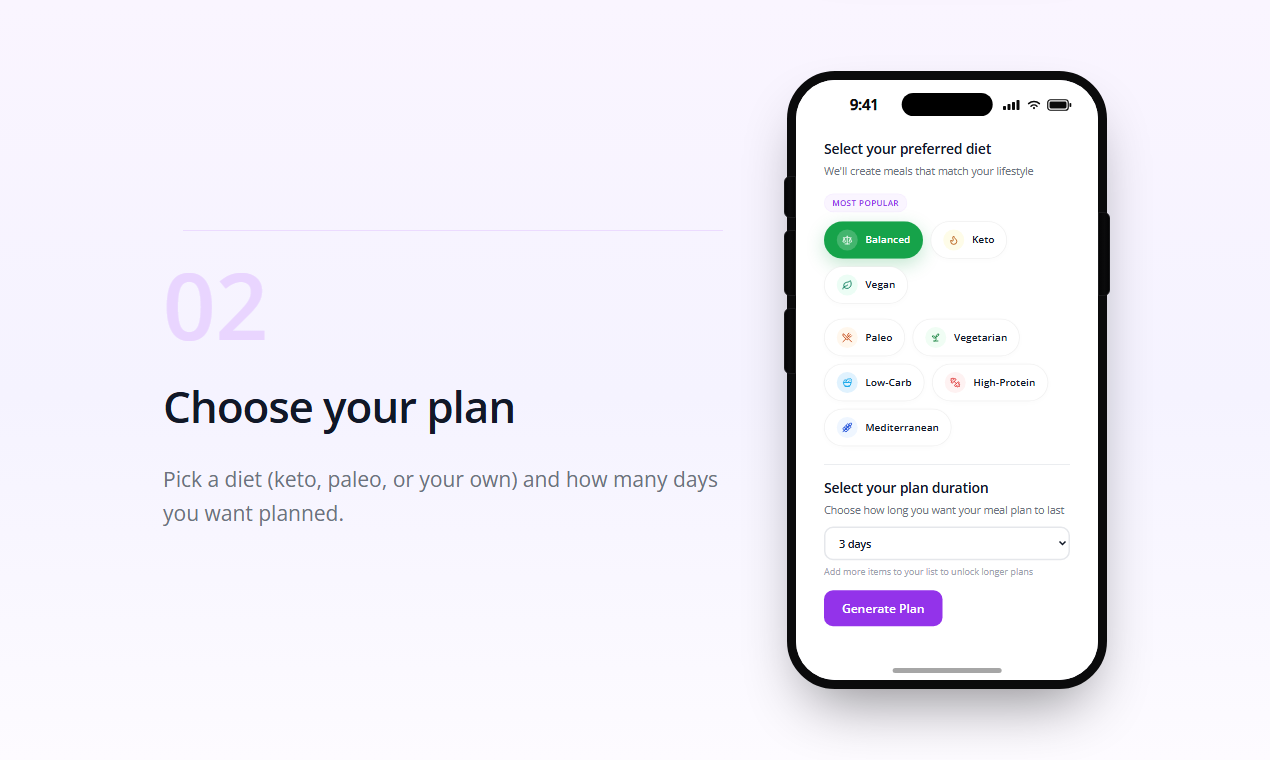
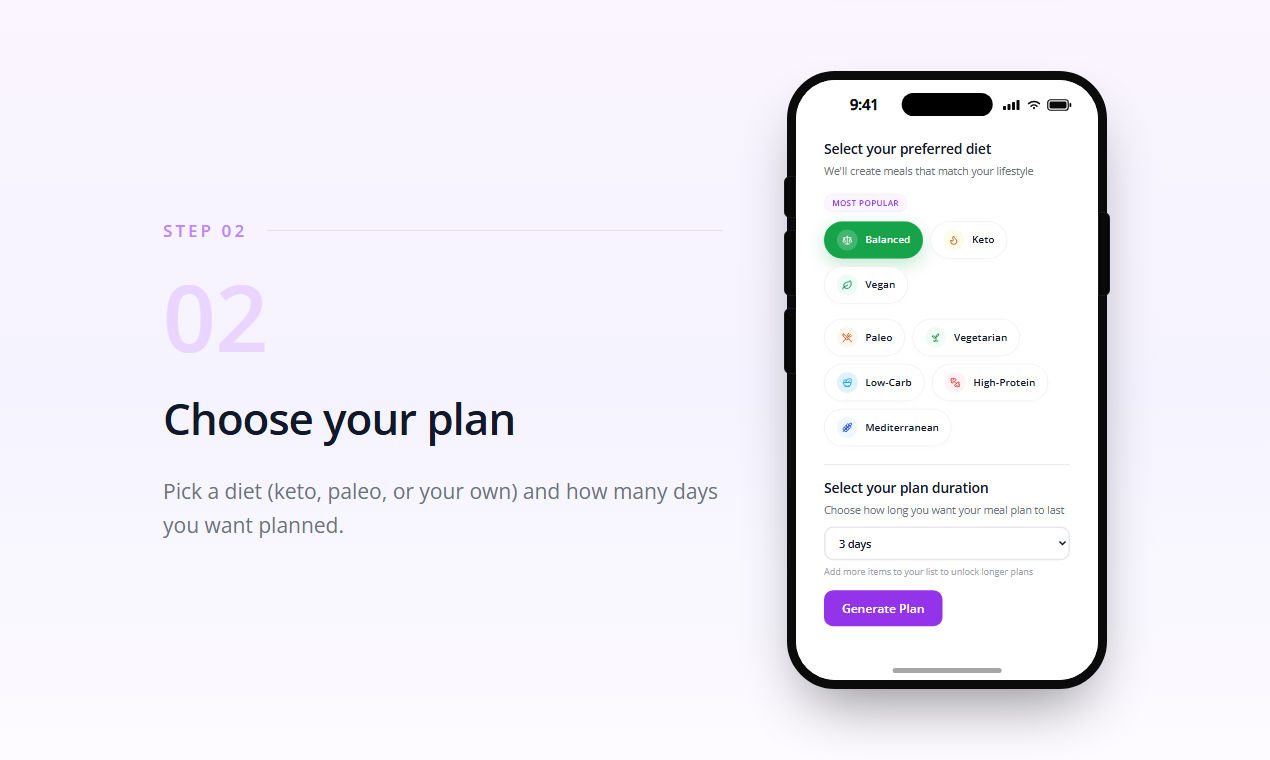
Fix eyebrow field for gallery export and re-render PNGs

diff --git a/src/gallery/GalleryExport.tsx b/src/gallery/GalleryExport.tsx
@@ -220,7 +220,7 @@ const GalleryExport = memo(function GalleryExport() {
 				{STEPS.map((step, index) => (
 					<Slide
 						key={step.number}
-						eyebrow={step.eyebrow}
+						eyebrow={`Step ${step.number}`}
 						kicker={<NumberKicker number={step.number} />}
 						title={step.title}
 						description={step.description}
